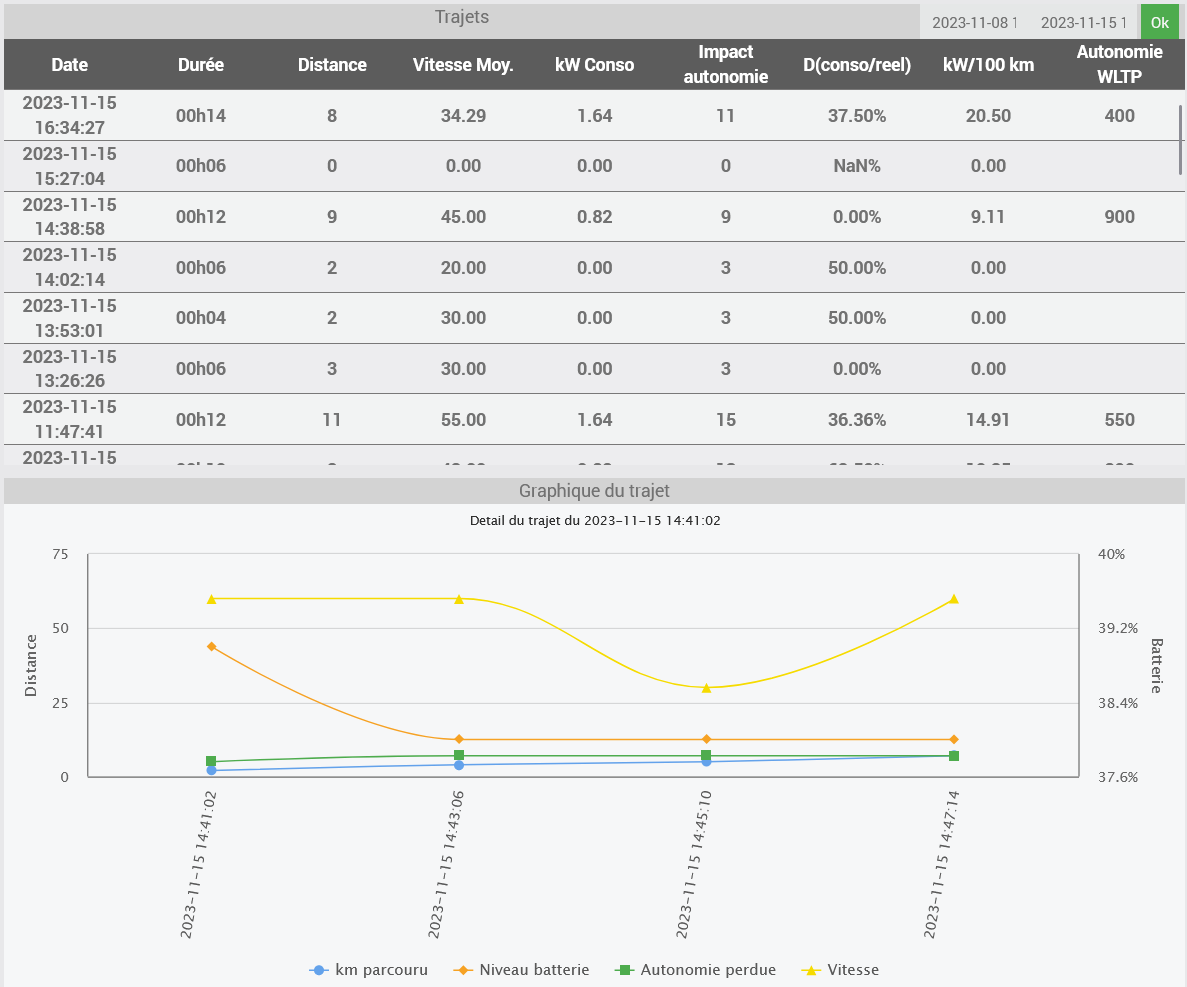
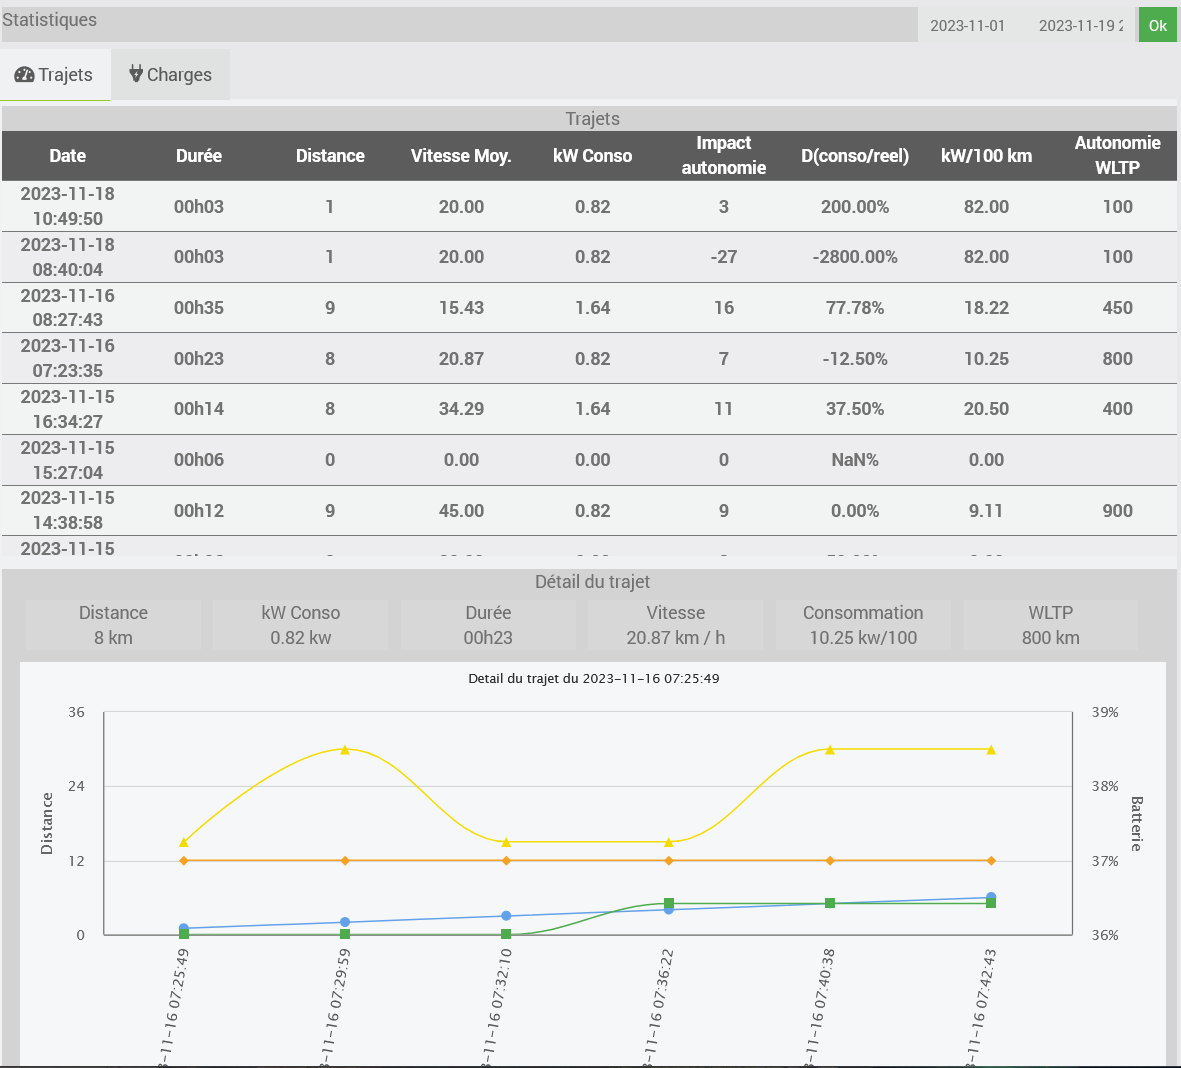
MAJ de la documentation

diff --git a/docs/fr_FR/changelog.md b/docs/fr_FR/changelog.md
@@ -6,6 +6,8 @@
 
 # 19/11/2023
 - Correction d'un dysfonctionnement d'affichage sur la tuile des véhicules
+- Ajout des informations du trajet lors de l'affichage du graphique détaillé
+- Ajout des statistiques générales sur les charges
 
 # 15/11/2023
 
